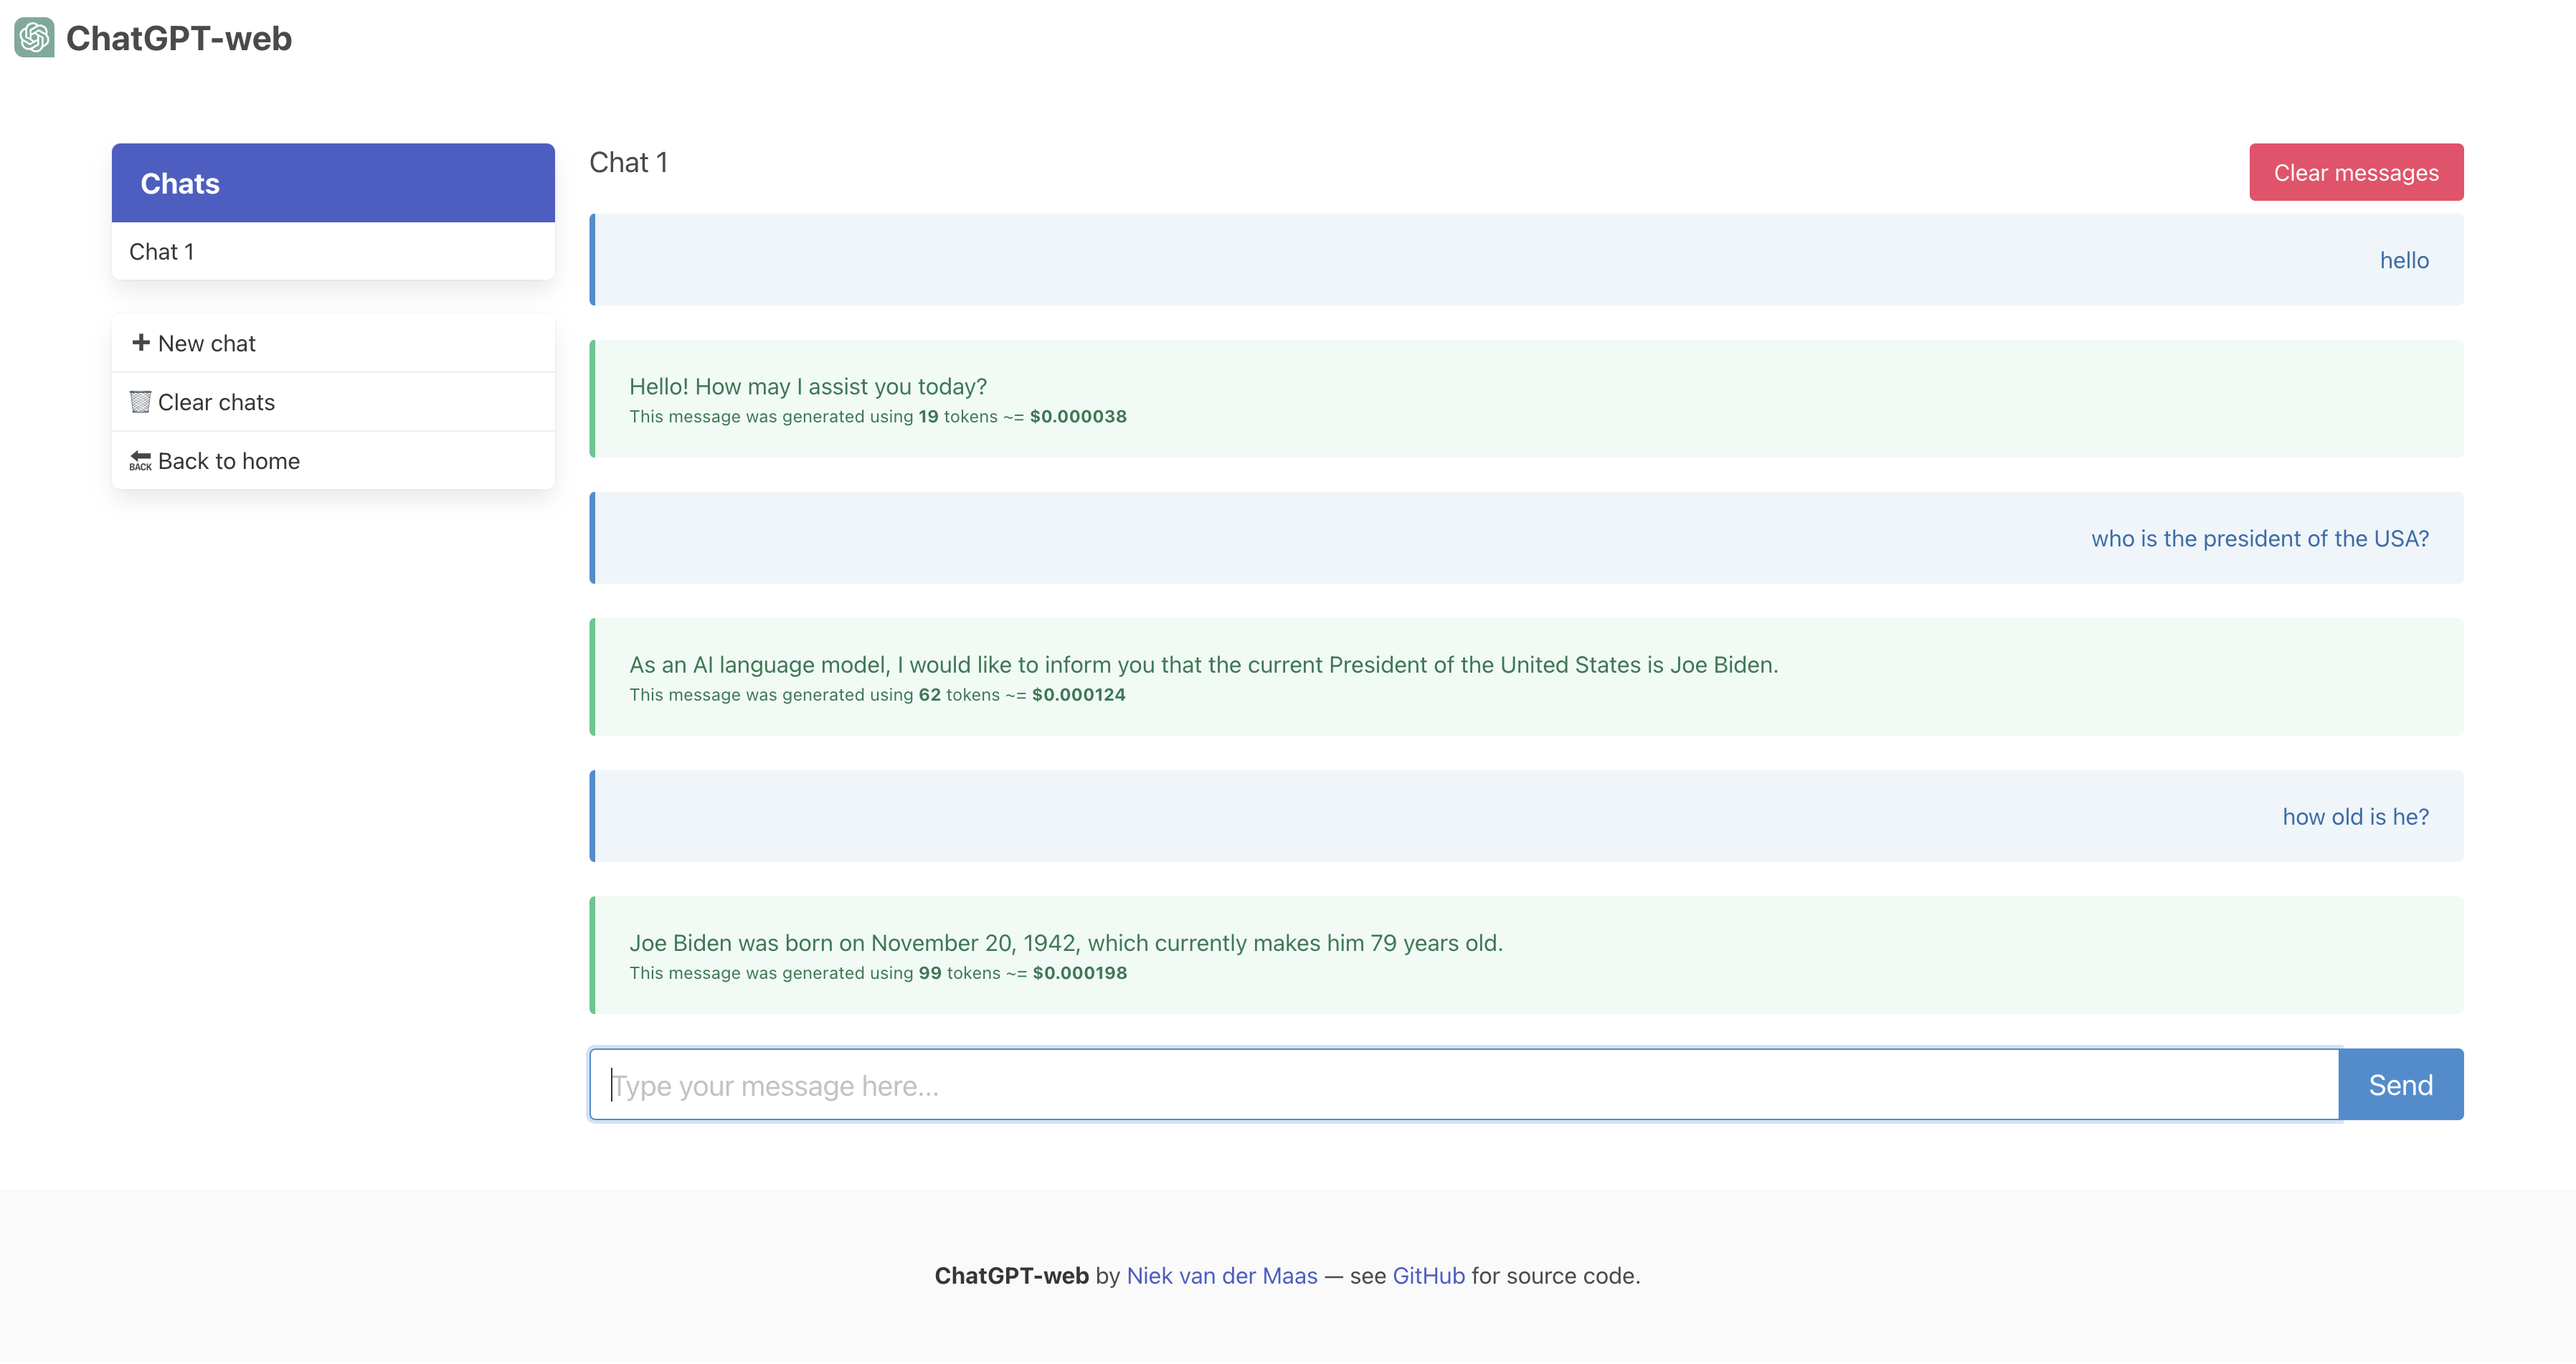
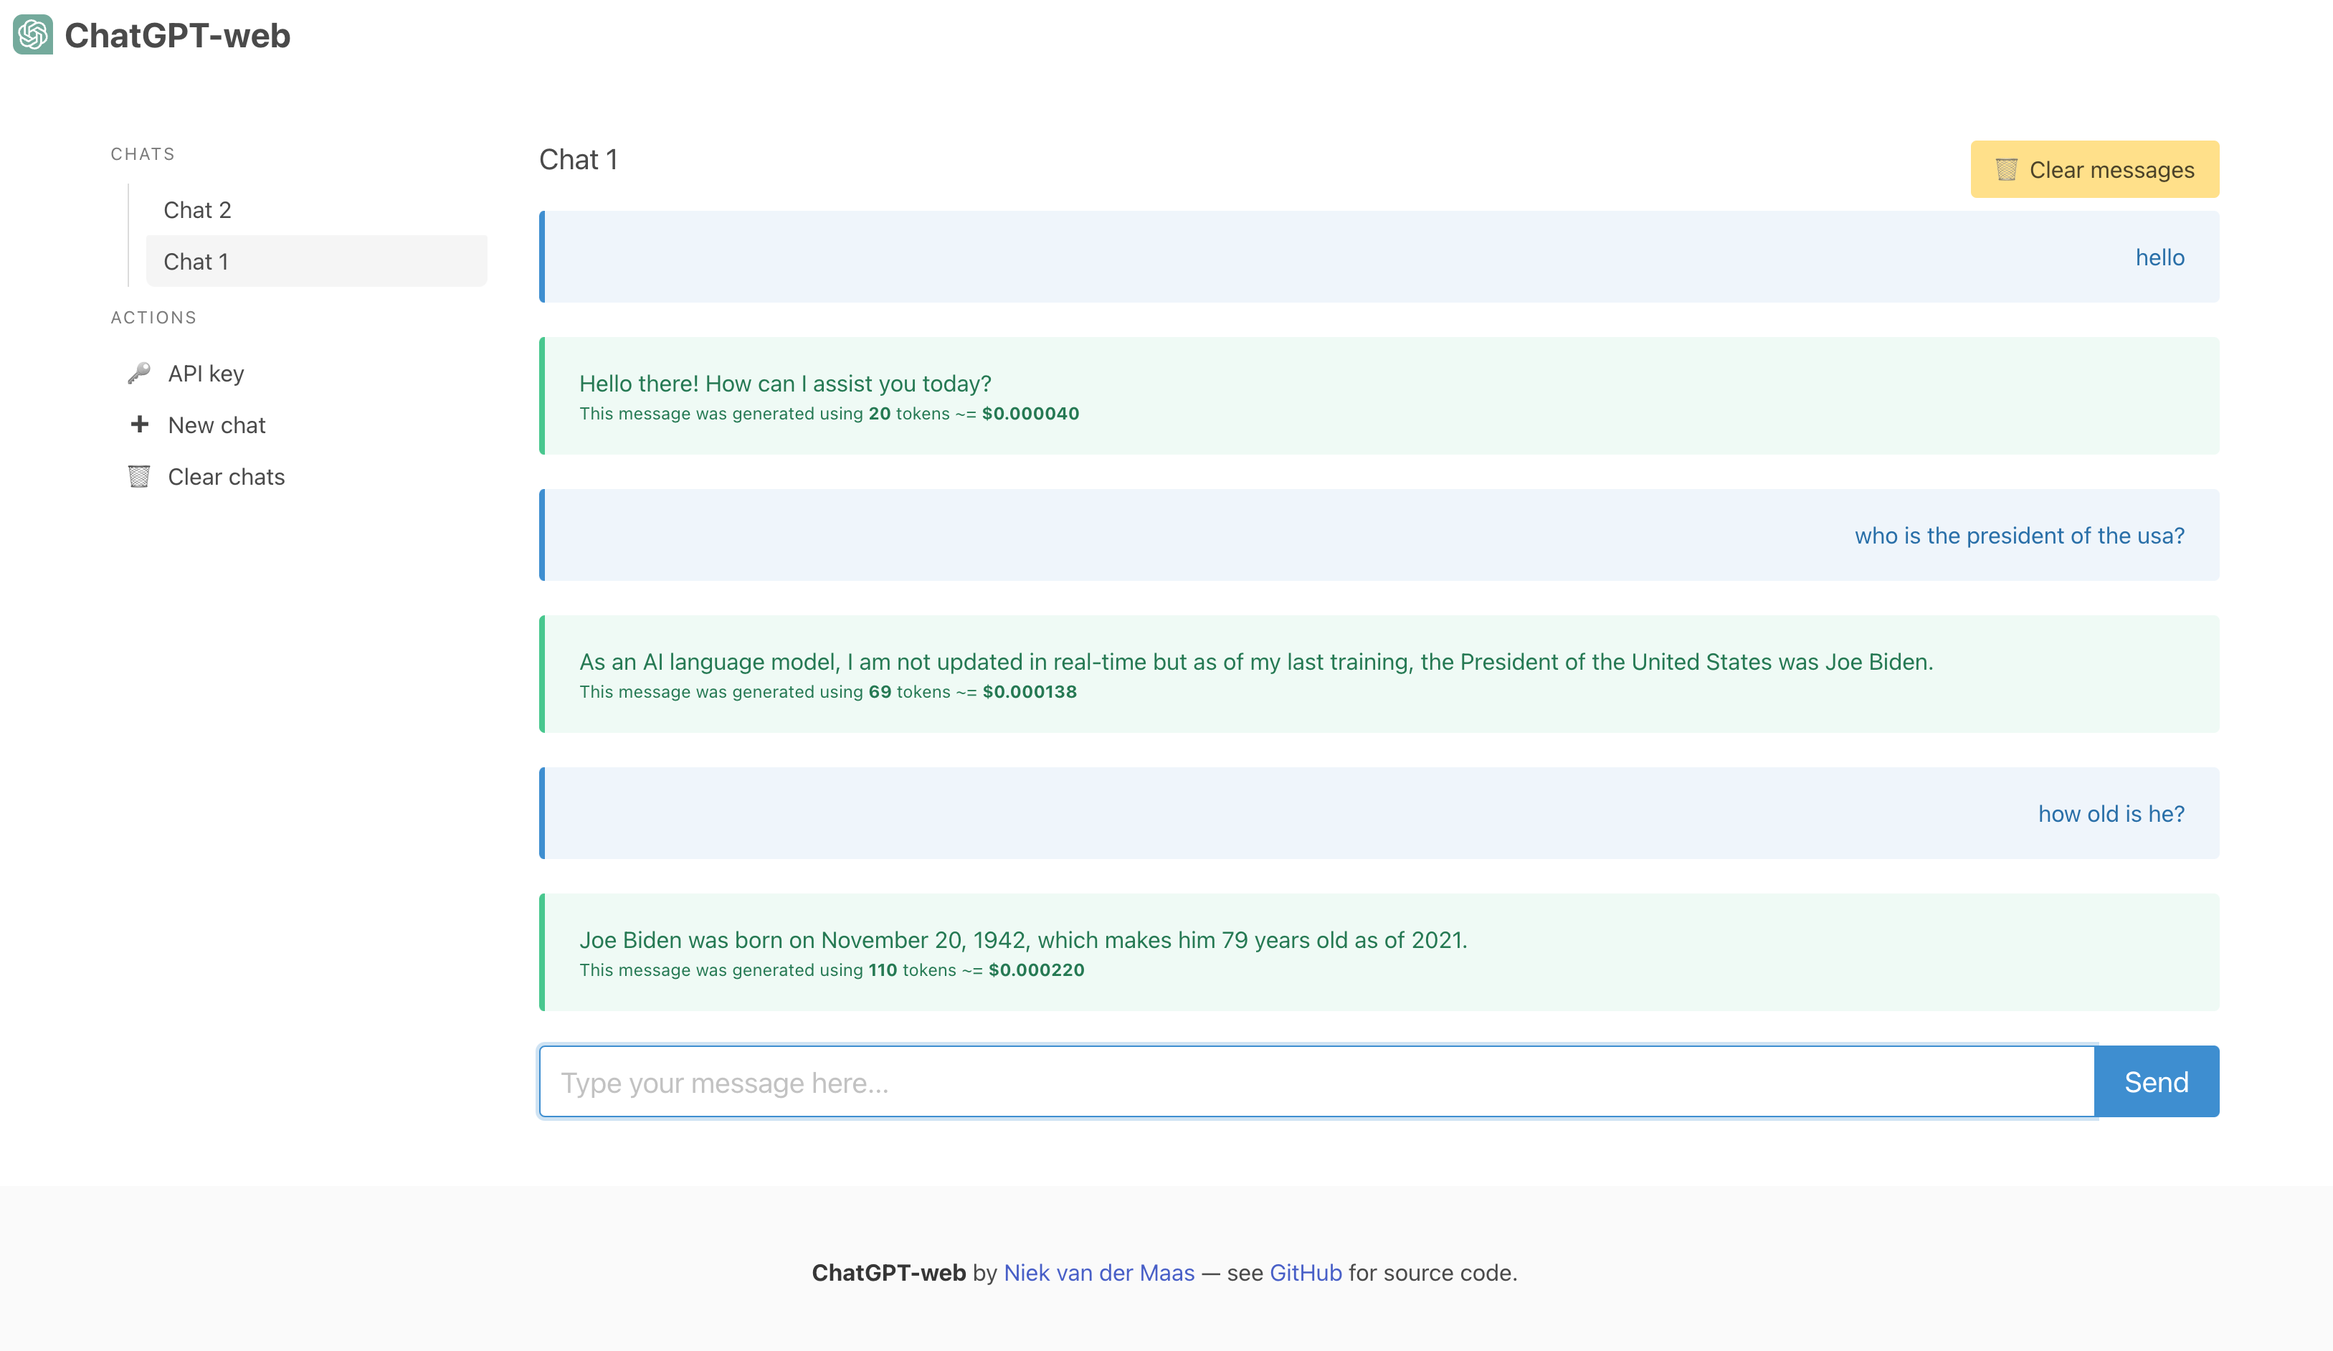
New screenshot, readme

diff --git a/README.md b/README.md
@@ -4,7 +4,7 @@
 
 ![Screenshot of ChatGPT-web](.github/screenshot.png)
 
-ChatGPT-web is a simple one-page web interface to the OpenAI ChatGPT model. To use it, you need to register for an API key at https://platform.openai.com/account/api-keys first. All messages are stored in your browser's local storage, so you can close the tab and come back later to continue the conversation.
+ChatGPT-web is a simple one-page web interface to the OpenAI ChatGPT API. To use it, you need to register for [an OpenAI API key](https://platform.openai.com/account/api-keys) first. All messages are stored in your browser's local storage, so everything is **private**. You can also close the browser tab and come back later to continue the conversation.
 
 ## Why?
 
